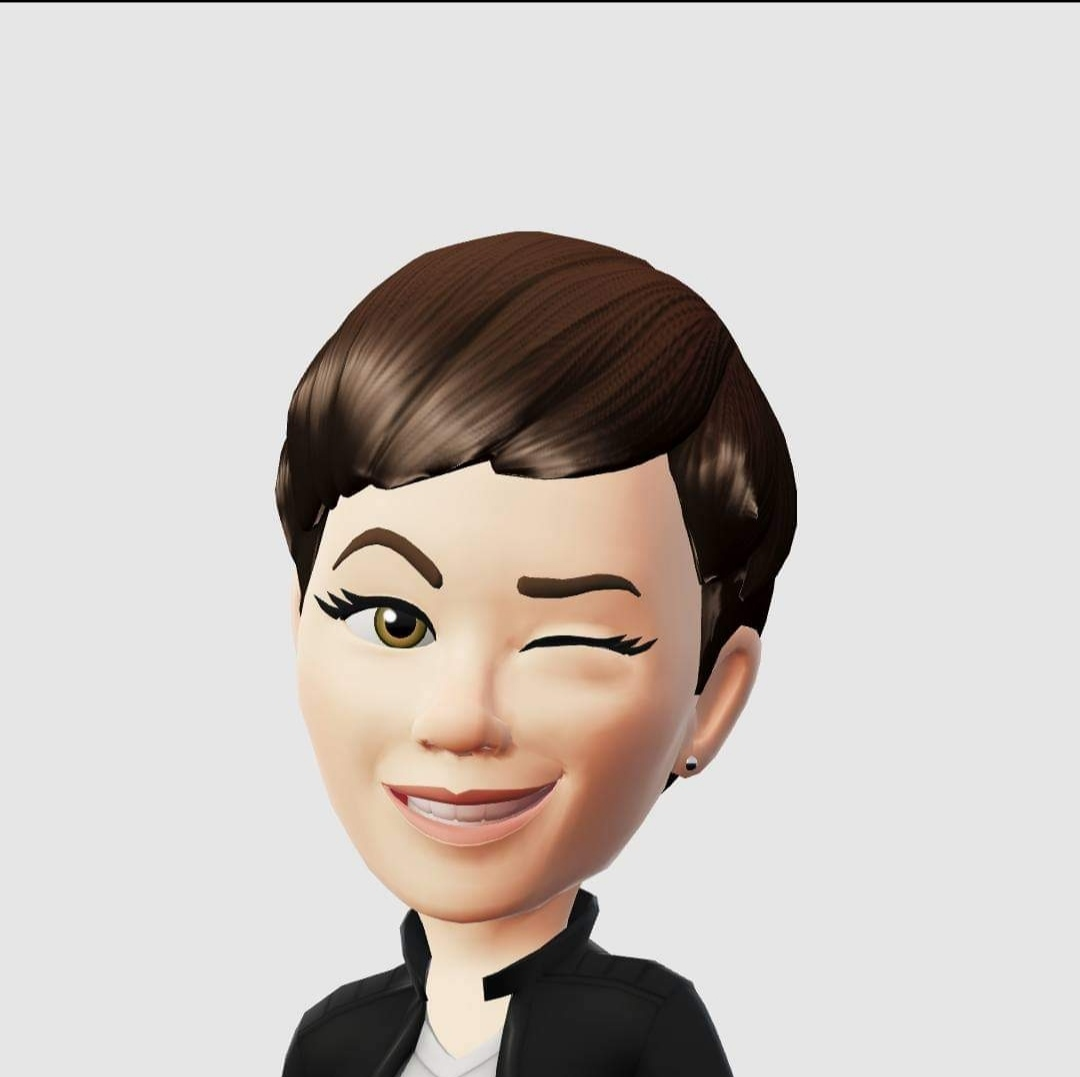
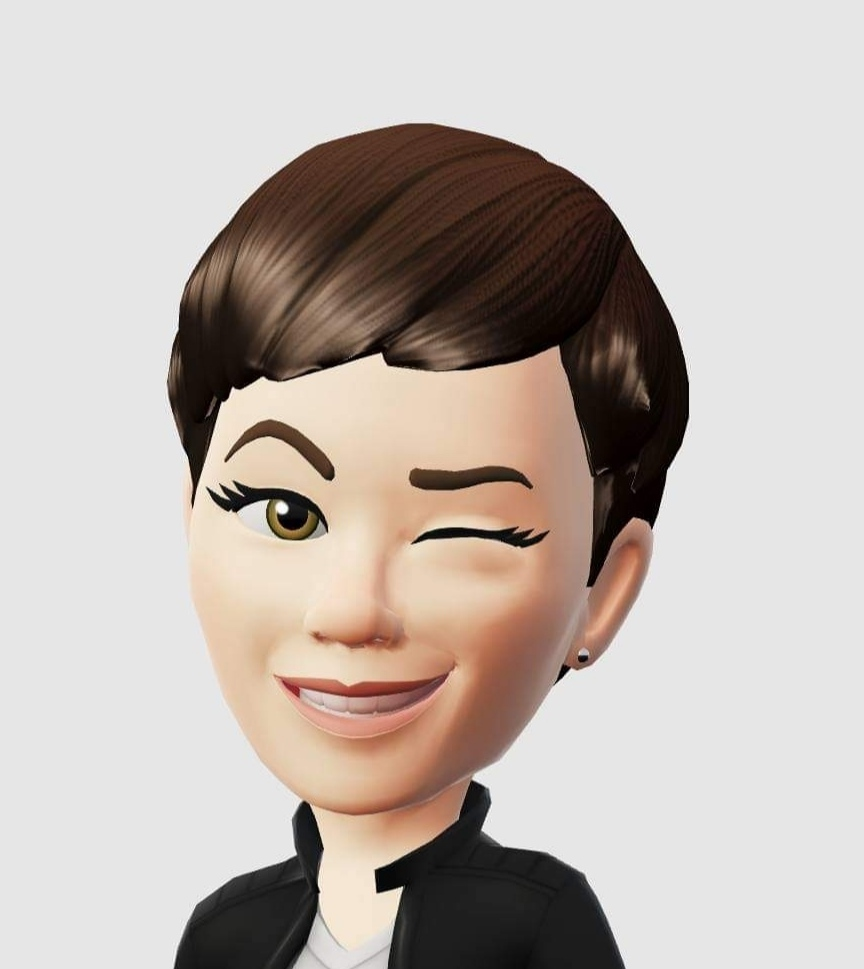
yes

Changed region(s): [[0.1875, 0.1238, 0.8125, 1.0]]

diff --git a/css/index.css b/css/index.css
@@ -1,12 +1,12 @@
 :root {
-    --color-uno: #2E5077;
-    --color-dos: #4DA1A9;
-    --color-tres: #79D7BE;
-    --color-cuatro: #F6F4F0;
+    --color-uno: #213555;
+    --color-dos: #3E5879;
+    --color-tres: #D8C4B6;
+    --color-cuatro: #F5EFE7;
     --textuno: #000;
     --textdos: #fff;
     --color-cinco:
-        
+
     ;
 }
 
@@ -30,12 +30,12 @@ body,
 
 
 .header h1 {
-    color: var(--textdos);
+    color: var(--color-uno);
     margin: 0;
 }
 
 .header h2 {
-    color: var(--color-uno);
+    color: var(--color-dos);
 }
 
 .header img {
@@ -80,7 +80,7 @@ body,
 .topnav a {
     float: left;
     display: block;
-    color: var(--textuno);
+    color: var(--color-dos);
     font-weight: bold;
     padding: 2%;
     text-decoration: none;
@@ -88,12 +88,13 @@ body,
 }
 
 .topnav a:hover {
-    background-color: var(--color-cinco, transparent);
+    background-color: var(--color-cuatro, transparent);
     color: var(--color-dos);
     border-radius: 5px;
 }
 
 .topnav a.active {
+
     color: var(--color-uno);
     border-radius: 5px;
 }
@@ -196,7 +197,7 @@ body,
         width: 33%;
     }
 
-   
+
 
 
     .card {
@@ -350,7 +351,7 @@ body,
 
     html {
         background-image: url("../img/2026-1.jpg");
-        background: url("../img/2026-1.jpg") no-repeat center/cover fixed;
+        background: url("../img/desk.jpg") no-repeat center/cover fixed;
         font-family: sans-serif;
     }
 
@@ -359,9 +360,9 @@ body,
         font-size: 6rem;
     }
 
-  
 
-   
+
+
     .header h2 {
         margin-left: 10%;
         font-size: 2rem;
@@ -397,12 +398,12 @@ body,
     }
 
     .item1a {
-        background-color: var(--color-dos);
-        color: var(--textdos);
+        background-color: var(--color-tres);
+        color: var(--color-dos);
         text-decoration: none;
         font-size: 2rem;
         padding: 1%;
-        margin-left: 20%;
+        margin: 8%;
         width: 20vw;
     }
 
@@ -416,11 +417,11 @@ body,
 
     #texto {
         border-radius: 5px;
-        background-color: var(--color-uno);
+        background-color: none;
         padding: 3%;
-        margin: 5%;
-        color: var(--textdos);
-        font-size: 1.5rem;
+        margin: 0 10%;
+        color: var(--color-uno);
+        font-size: 2rem;
         text-align: justify;
     }
 
@@ -429,7 +430,7 @@ body,
         text-align: right;
         margin: 2% 2% 1% 5%;
         font-size: 1.5rem;
-        color: var(--color-cuatro);
+        color: var(--color-uno);
     }
 
     .footer {

diff --git a/index.html b/index.html
@@ -49,7 +49,7 @@
         <div class="flex">
           <div>
             <a target="_blank" href="https://arasancor.github.io/Portfolio-Yess/html/sobremi.html"><img
-                src="./img/Ara.jpg" alt="Ara"></a>
+                src="./img/avatarARA.jpg" alt="Ara"></a>
           </div>
 
           <div>
